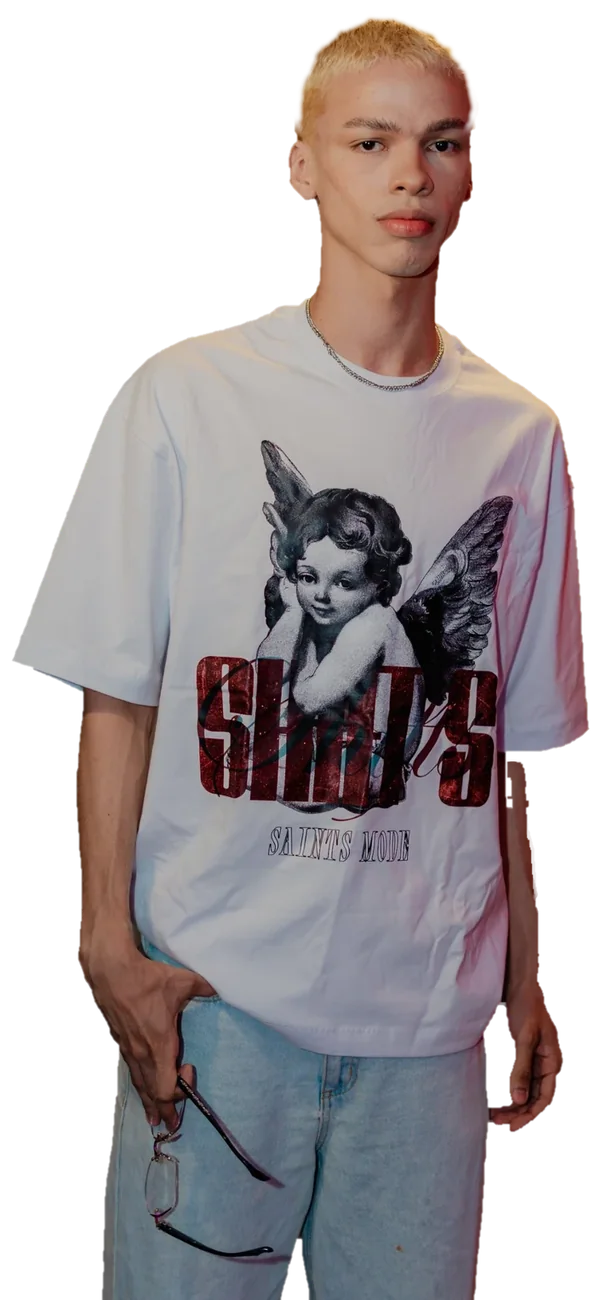
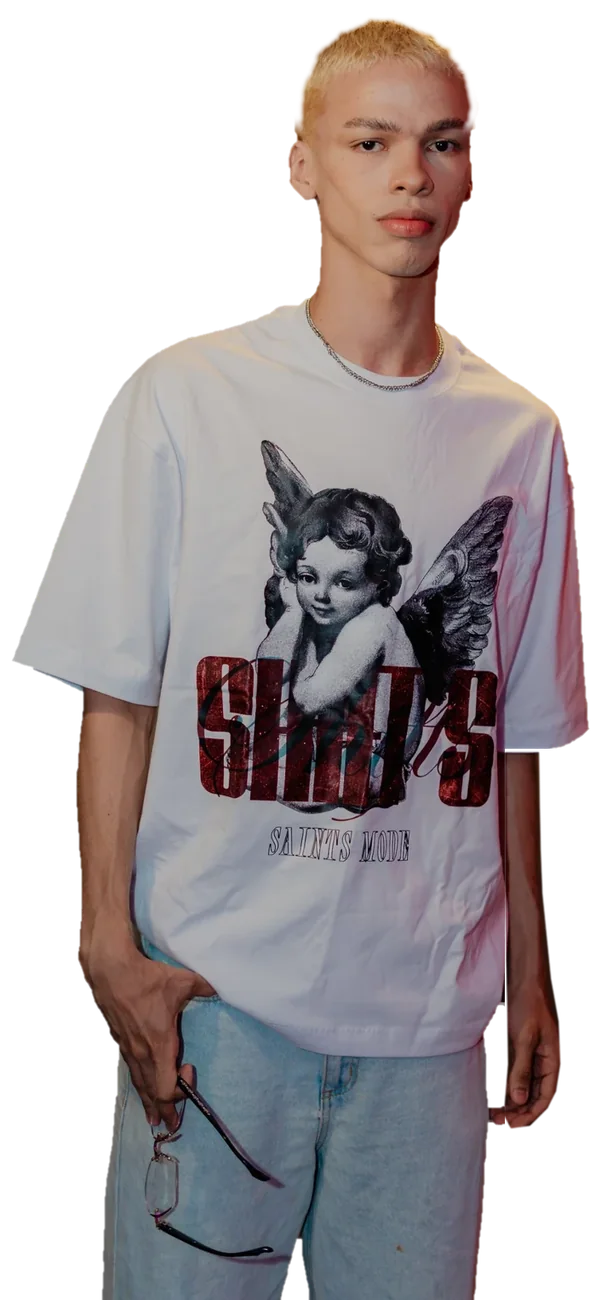
Modelo rubio: brazo trazado sin picos ni huecos, pelo con borde que sigue los mechones
Claude-Session: https://claude.ai/code/session_013ynmKTYERfCmJQKP2pb1Nx

diff --git a/tools/recorte/rubios.py b/tools/recorte/rubios.py
@@ -1,6 +1,6 @@
 import numpy as np, cv2, sys
 from PIL import Image
-def run(name, off, hair_box, arm_boxes, erode_px=15):
+def run(name, off, hair_box, arm_boxes, erode_px=15, arm_fix=None, arm_poly=None, hair_matte=False):
     src = Image.open(f'src/{name}.png').convert('RGB'); src.thumbnail((1800, 1800), Image.LANCZOS)
     a = np.asarray(Image.open(f'cut3/{name}.webp').convert('RGBA')).astype(np.float32)
     H, W = a.shape[:2]; ox, oy = off
@@ -21,19 +21,51 @@ def run(name, off, hair_box, arm_boxes, erode_px=15):
         skin = skin * main
         skin = cv2.GaussianBlur(skin, (3, 3), 0)
         al = np.maximum(al, skin * z)
+    # brazo: rellenar huecos internos y borde liso (sin picos)
+    if arm_fix:
+        x0, y0, x1, y1 = arm_fix
+        reg = (al[y0:y1, x0:x1] > 0.5).astype(np.uint8)
+        ff = reg.copy(); m2 = np.zeros((reg.shape[0] + 2, reg.shape[1] + 2), np.uint8)
+        for sx in (reg.shape[1] - 1,):
+            for sy in range(0, reg.shape[0], 20):
+                if ff[sy, sx] == 0: cv2.floodFill(ff, m2, (sx, sy), 2)
+        reg = np.where(ff == 2, 0, 1).astype(np.uint8)  # todo lo que no conecta con el fondo de la derecha es cuerpo
+        reg = cv2.morphologyEx(reg, cv2.MORPH_OPEN, np.ones((5, 5), np.uint8))
+        sm = cv2.GaussianBlur(reg.astype(np.float32), (0, 0), 2.2)
+        al[y0:y1, x0:x1] = np.clip((sm - 0.5) * 2.4 + 0.5, 0, 1)
+    # brazo trazado a mano sobre la foto original (borde liso, sin huecos)
+    if arm_poly is not None:
+        x0, y0, x1, y1 = arm_poly[0]
+        pm = np.zeros((H, W), np.uint8)
+        cv2.fillPoly(pm, [np.array(arm_poly[1], np.int32) * 4], 255, lineType=cv2.LINE_AA, shift=2)
+        pm = cv2.GaussianBlur(pm.astype(np.float32) / 255, (3, 3), 0)
+        z = np.zeros((H, W), bool); z[y0:y1, x0:x1] = True
+        al = np.where(z, np.maximum(pm, np.where(np.arange(W)[None, :] < arm_poly[2], al, 0)), al)
     # pelo: borde metido y difuminado (sale el halo de la pared)
     x0, y0, x1, y1 = hair_box
     zone = np.zeros((H, W), np.float32); zone[y0:y1, x0:x1] = 1; zone = cv2.GaussianBlur(zone, (0, 0), 6)
     core = cv2.erode((al > 0.5).astype(np.uint8), np.ones((erode_px, erode_px), np.uint8)).astype(np.float32)
     core = cv2.GaussianBlur(core, (0, 0), 2.4)
     hair = np.minimum(al, np.clip(core * 1.2, 0, 1))
+    if hair_matte:
+        # filtro guiado: el borde sigue los mechones de la foto
+        I = cv2.cvtColor(O.astype(np.uint8), cv2.COLOR_RGB2GRAY).astype(np.float32) / 255
+        p = hair
+        r = 6; e = 2e-3
+        mI = cv2.boxFilter(I, -1, (r, r)); mp = cv2.boxFilter(p, -1, (r, r))
+        cIp = cv2.boxFilter(I * p, -1, (r, r)) - mI * mp; vI = cv2.boxFilter(I * I, -1, (r, r)) - mI * mI
+        A = cIp / (vI + e); Bb = mp - A * mI
+        q = cv2.boxFilter(A, -1, (r, r)) * I + cv2.boxFilter(Bb, -1, (r, r))
+        q = np.clip((q - 0.15) / 0.7, 0, 1)
+        hair = np.minimum(q, np.clip(cv2.dilate(hair, np.ones((5, 5), np.uint8)), 0, 1))
     al = al * (1 - zone) + hair * zone
     a[..., 3] = np.clip(al, 0, 1) * 255
     im = Image.fromarray(np.clip(a, 0, 255).astype(np.uint8), 'RGBA')
     im.save(f'cut6_{name}.webp', 'WEBP', quality=90, alpha_quality=95, method=6)
     return im
-f = run('blanco-chico-frente', (211, 272), (330, 0, 570, 150), [(585, 895, 690, 1350), (80, 880, 230, 1300)])
-b = run('blanco-chico-espalda', (184, 335), (285, 0, 535, 175), [(590, 905, 700, 1310), (80, 880, 160, 1300)])
+f = run('blanco-chico-frente', (211, 272), (330, 0, 570, 150), [(585, 895, 690, 1350), (80, 880, 230, 1300)], erode_px=17,
+        arm_poly=((585, 880, 706, 1360), [(593, 884), (632, 884), (633, 950), (634, 1000), (636, 1050), (641, 1100), (646, 1150), (655, 1200), (657, 1250), (652, 1282), (642, 1302), (622, 1322), (600, 1325), (592, 1310), (597, 1250), (596, 1180), (593, 1050)], 593))
+b = run('blanco-chico-espalda', (184, 335), (285, 0, 535, 175), [(590, 905, 700, 1310), (80, 880, 160, 1300)], erode_px=21, hair_matte=True)
 ims = []
 for im in (f, b):
     for bg in [(28, 28, 30, 255), (255, 63, 164, 255)]:
